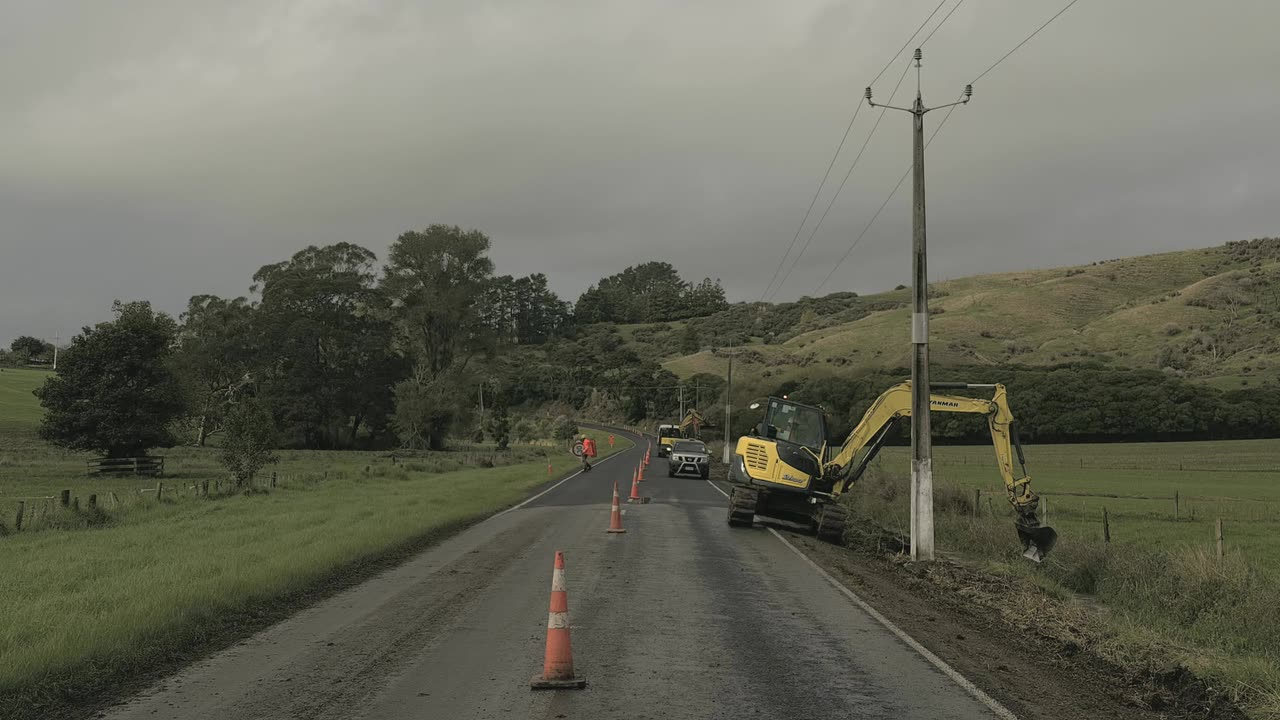
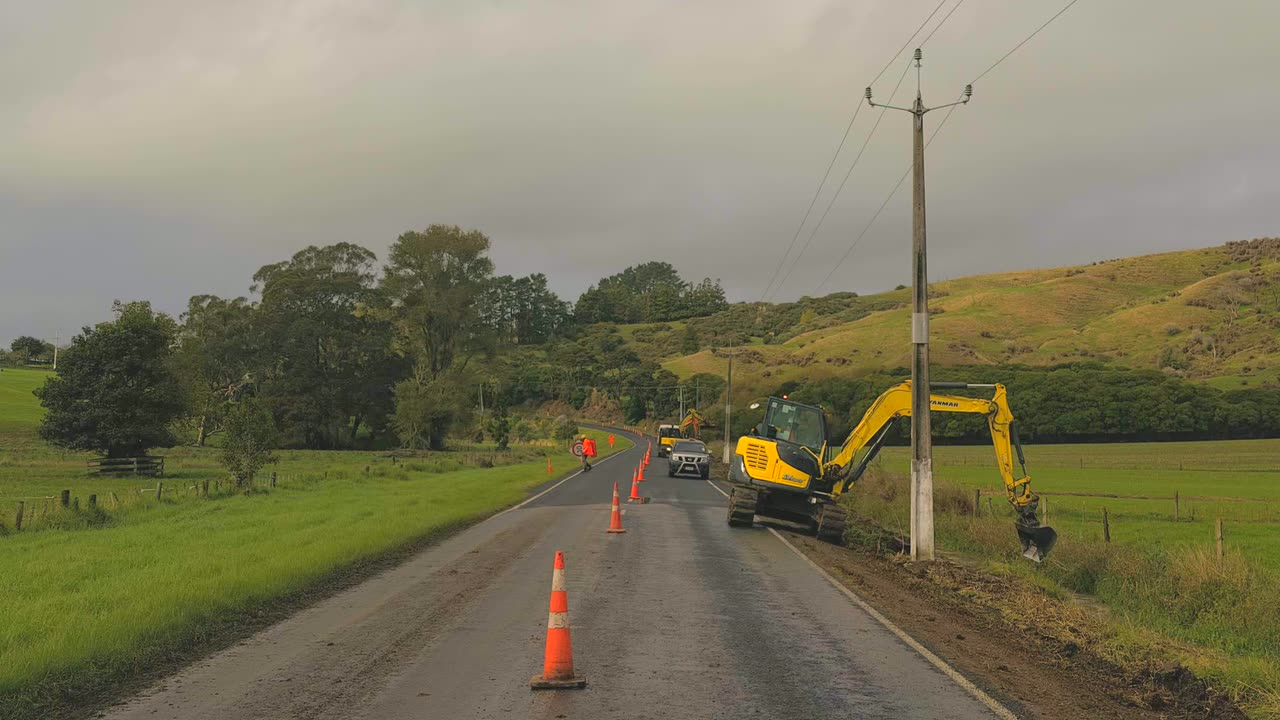
Fix faded road photos, swap hazy shoulder shot for the Yanmar drain photo
The August brightening raised luminance only and left chroma alone, which
is what made these four read as faded: they sat at colour 6.6-9.5 against
the gallery's 16-33. Re-derived from the original camera files with gamma
and saturation instead of a flat brightness lift, so there is no second
compression pass.

The shoulder-widening shot was taken in haze at long range and does not
recover, so it is replaced by the Yanmar side-drain photo the owner sent.
Gallery stays at 14 tiles.

diff --git a/src/data/gallery.ts b/src/data/gallery.ts
@@ -29,9 +29,9 @@ export const GALLERY: GalleryPhoto[] = [
     caption: 'Fresh metal courses laid and compacted on a rural road.',
   },
   {
-    src: '/projects/road-shoulder-drainage.jpg',
-    alt: 'Excavator and tipper truck working the shoulder of a rural highway behind a cone taper, with traffic queued past the site',
-    caption: 'Shoulder widening and drainage on a main road, under live traffic management.',
+    src: '/projects/road-verge-drain.jpg',
+    alt: 'Yanmar tracked excavator on a sealed rural road with its boom over a freshly dug verge drain, two workers in orange hi-vis alongside',
+    caption: 'Digging the verge drain out on a rural road, machine working off the seal.',
   },
   {
     src: '/projects/road-drain-excavator.jpg',
